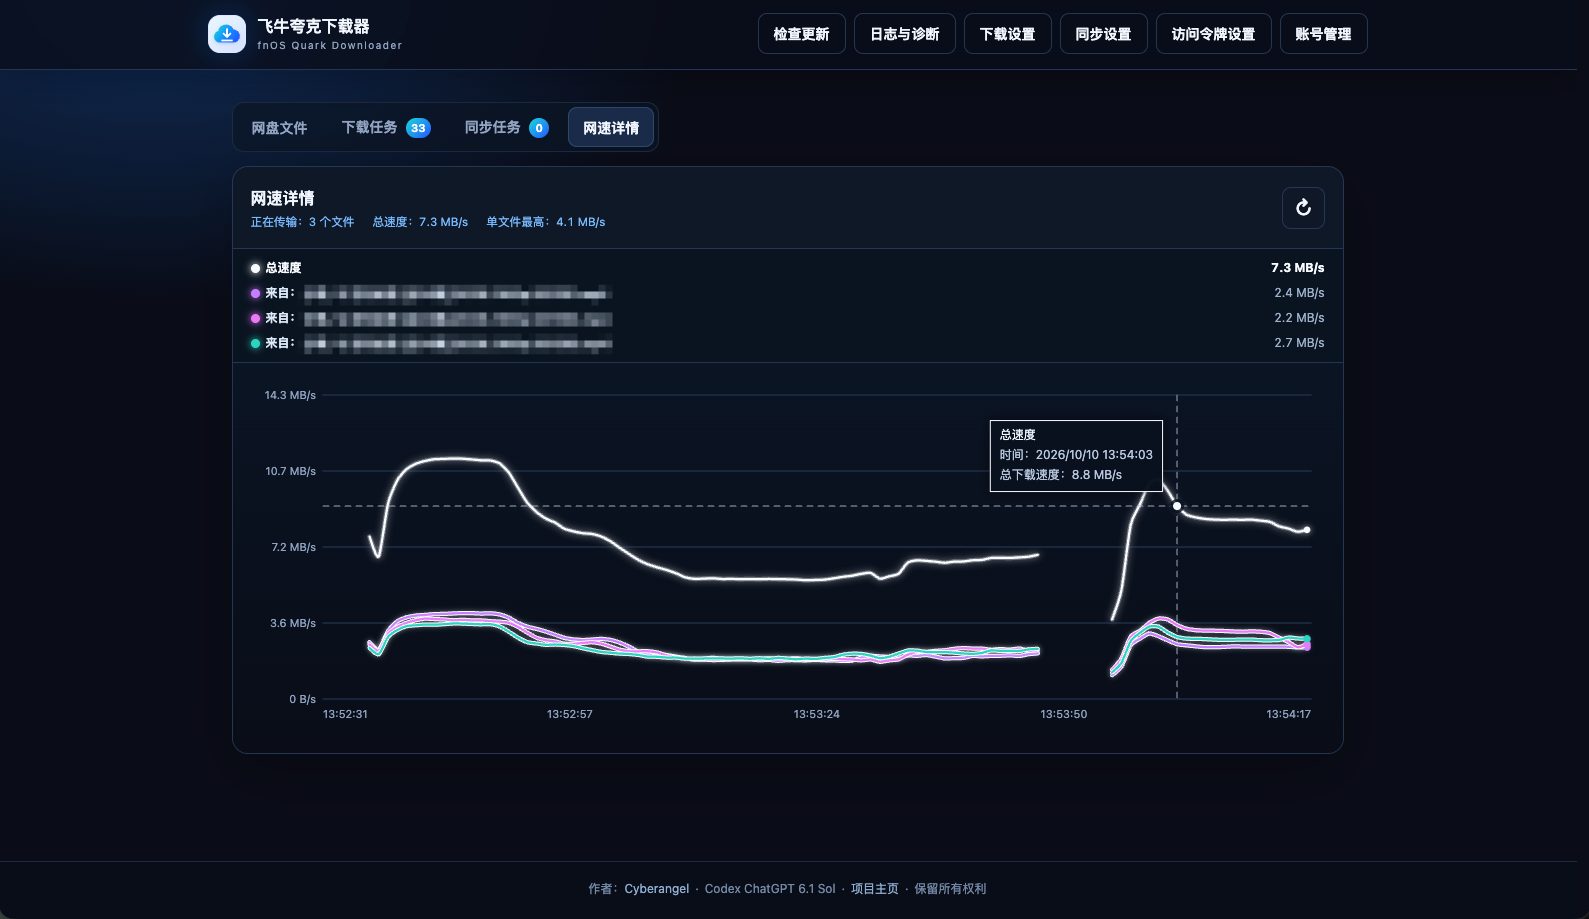
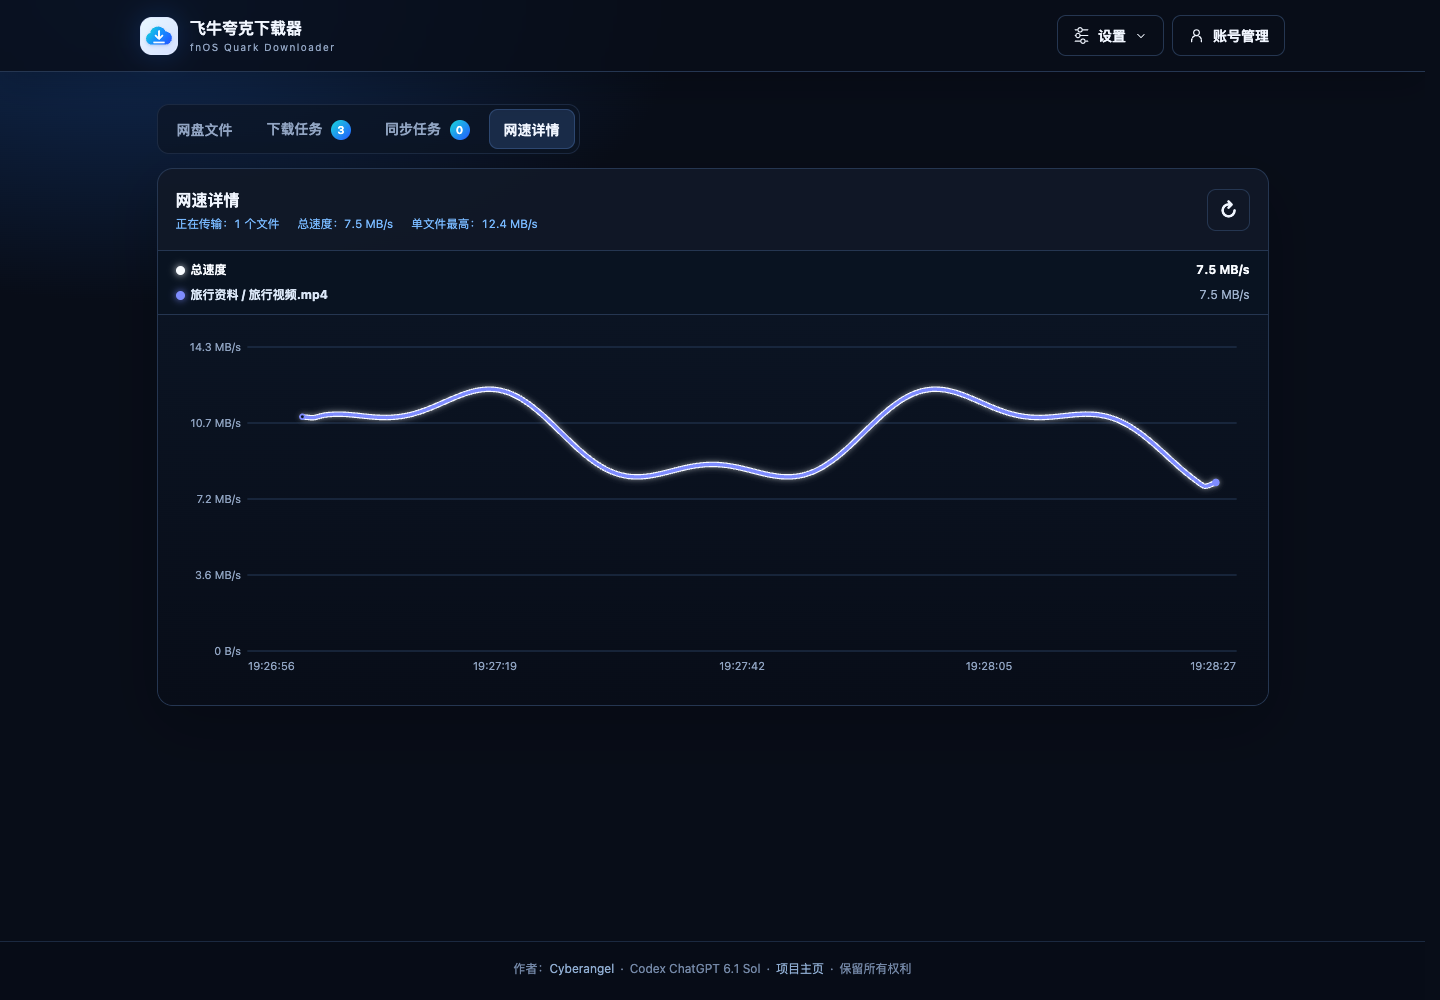
docs: prepare v0.7.10
Update the fnOS guide and five sanitized screenshots for v0.7.10.

diff --git a/README.md b/README.md
@@ -7,17 +7,17 @@
 
 ## 下载
 
-v0.7.9 安装包以本仓库的 [GitHub Releases](../../releases/latest) 实际发布为准，下载时选择对应架构：
+v0.7.10 发布准备中，尚未发布。安装包以本仓库的 [GitHub Releases](../../releases/latest) 实际发布为准，下载时选择对应架构：
 
 | 架构 | 安装包 |
 | --- | --- |
-| x86_64 | `fnos-quark-0.7.9-x86_64.fpk` |
-| ARM64 | `fnos-quark-0.7.9-arm64.fpk` |
+| x86_64 | `fnos-quark-0.7.10-x86_64.fpk` |
+| ARM64 | `fnos-quark-0.7.10-arm64.fpk` |
 
 对照 Release 的 `SHA256SUMS` 校验文件，不一致时重新下载：
 
 ```bash
-sha256sum fnos-quark-0.7.9-x86_64.fpk
+sha256sum fnos-quark-0.7.10-x86_64.fpk
 ```
 
 应用中心显示安装时记录的版本，实际版本请在应用内查看。
@@ -25,7 +25,7 @@ sha256sum fnos-quark-0.7.9-x86_64.fpk
 ## 主要功能
 
 - 网盘浏览与排序，文件、文件夹下载和目录结构保留
-- 扫码或 Cookie 登录，暂停、继续、重试、优先下载和断点续传
+- 扫码或 Cookie 登录，暂停、恢复、重试、优先下载和断点续传
 - 多目录增量同步、下载设置、任务进度、预计剩余时间和速度曲线
 - 浏览器通知、日志筛选、诊断导出和应用内更新；适配桌面、平板和手机，刷新保持当前页面
 
@@ -42,7 +42,7 @@ sha256sum fnos-quark-0.7.9-x86_64.fpk
 
 浏览器和飞牛 App 保存验证状态；清除网页数据、更换地址或修改令牌后需重新验证。
 
-退出或 Cookie 失效会暂停任务；重新登录原账号可恢复相关任务，进度和记录保留。手动暂停的任务需自行继续。
+退出或 Cookie 失效会暂停任务；重新登录原账号可恢复相关任务，进度和记录保留。手动暂停的任务需自行恢复。
 
 更换账号前，先删除全部同步关系（含暂停、失效项），再完成其余未完成下载，或取消后删除记录；失败和已取消的记录也需删除，已完成的历史记录无需删除。
 
@@ -76,7 +76,7 @@ sha256sum fnos-quark-0.7.9-x86_64.fpk
 | 网络错误自动重试 | 默认 3 次、间隔 120 秒；0 次关闭 |
 | 浏览器通知 | 默认关闭；仅通知当前浏览器，须保持网页打开并授予通知权限；HTTP 页面可能不可用 |
 
-授权父目录后，可逐级选择其中可写的子目录。“浏览”用于选择默认目录。未勾选“默认使用此下载目录”时，点击“下载”选择本次保存位置；勾选后直接下载。本次选择不改变默认目录，取消选择不创建任务。
+授权父目录后，可逐级选择其中可写的子目录。“设置 → 下载设置”中的“浏览”用于选择默认目录。未勾选“默认使用此下载目录”时，点击“下载”选择本次保存位置；勾选后直接下载。本次选择不改变默认目录，取消选择不创建任务。
 
 目录、目录结构和同名处理只影响新任务。
 
@@ -84,7 +84,7 @@ sha256sum fnos-quark-0.7.9-x86_64.fpk
 
 ## 任务规则
 
-关闭网页后下载仍会继续，暂停或取消需在任务页操作。未完成任务排在历史记录前；文件夹任务可展开查看进度和失败原因。暂停文件夹时，排队或下载中的子文件显示“已暂停”；继续文件夹不恢复单独暂停的子文件。
+关闭网页后下载仍会继续，暂停或取消需在任务页操作。未完成任务排在历史记录前；文件夹任务可展开查看进度和失败原因。暂停整个任务后，未完成的子文件显示“暂停中”，可单独恢复需要的文件，其余文件保持暂停；“恢复全部下载”恢复该任务中暂停的文件。排队中的子文件可优先下载或取消，开始传输后可暂停。
 
 ![下载任务](assets/screenshots/download-tasks.png)
 
@@ -92,12 +92,12 @@ sha256sum fnos-quark-0.7.9-x86_64.fpk
 
 ## 同步、网速与更新
 
-- **增量同步**：在“同步设置”选择网盘文件夹和保存目录，默认每 60 分钟检查。首次下载已有内容，之后只下载识别为新增的内容，不持续校对或更新旧文件；云端删除不影响本地文件，本地已完成文件被移走或删除后需手动下载。来源目录或上级目录移动、改名、删除后须重新建立同步。删除同步任务取消未完成下载，保留已完成文件。
+- **增量同步**：在“设置 → 同步设置”选择网盘文件夹和保存目录，默认每 60 分钟检查。首次下载已有内容，之后只下载识别为新增的内容，不持续校对或更新旧文件；云端删除不影响本地文件，本地已完成文件被移走或删除后需手动下载。来源目录或上级目录移动、改名、删除后须重新建立同步。删除同步任务取消未完成下载，保留已完成文件。
 - **网速详情**：显示最近 10 分钟的总速度和单文件曲线，已完成曲线变暗并保留至窗口结束；重启清空速度历史。
 
   ![网速详情](assets/screenshots/speed-details.png)
 
-- **应用更新**：在“检查更新”中查看更新日志并安装。展开“更新线路”可使用自动选择，或指定 GitHub 直连、GH-Proxy 和自定义 HTTPS 代理；选择后自动保存并重新检查。已开始的更新包下载在关闭窗口后仍继续。更新失败后按提示重新下载或重试安装。
+- **应用更新**：在“设置 → 检查更新”中查看更新日志并安装。展开“更新线路”可使用自动选择，或指定 GitHub 直连、GH-Proxy 和自定义 HTTPS 代理；选择后自动保存并重新检查。已开始的更新包下载在关闭窗口后仍继续，可重新打开窗口取消下载，清理完成后更换线路重新下载。更新失败后按提示重新下载或重试安装。
 
 只切换线路会保留已保存的自定义代理地址。清空“GitHub 代理地址”后离开输入框或按回车，保存成功后删除该地址、从自动选线中移除该线路，并恢复“自动选择”。
 
@@ -111,7 +111,7 @@ sha256sum fnos-quark-0.7.9-x86_64.fpk
 
 ![日志与诊断](assets/screenshots/logs-diagnostics.png)
 
-诊断包包含运行信息、更新线路和延迟检测结果、脱敏日志、通知和崩溃报告。不含 Cookie、访问令牌、自定义代理地址或下载文件内容，但可能含文件名和路径，分享前请检查。
+诊断包包含运行信息、更新线路和延迟检测结果、脱敏日志、通知和崩溃报告，并保留更新下载各条已尝试线路的失败原因。不含 Cookie、访问令牌、自定义代理地址或下载文件内容，但可能含文件名和路径，分享前请检查。
 
 ## 常见问题
 
@@ -120,7 +120,7 @@ sha256sum fnos-quark-0.7.9-x86_64.fpk
 - **访问令牌无效**：重新复制 `token`，去除引号和空白；可在“访问令牌设置”中调整。
 - **如何使用 Cookie 登录**：登录 [夸克网盘](https://pan.quark.cn)，打开开发者工具“网络 / Network”并刷新；从发往 `drive.quark.cn` 的请求标头复制完整 `Cookie`（不是 `Set-Cookie`），粘贴到“Cookie 登录”并保存。
 - **Cookie 已失效**：重新登录原账号，任务和进度保留。
-- **暂停后暂时无法继续**：稍等后刷新任务列表，再继续。
+- **暂停后暂时无法恢复**：稍等后刷新任务列表，再恢复下载。
 - **下载速度与官方客户端不同**：检查总限速、账号权益和网络环境，可导出诊断包排查。
 - **硬盘空间不足**：按提示释放空间或调整预留值后重试。
 
